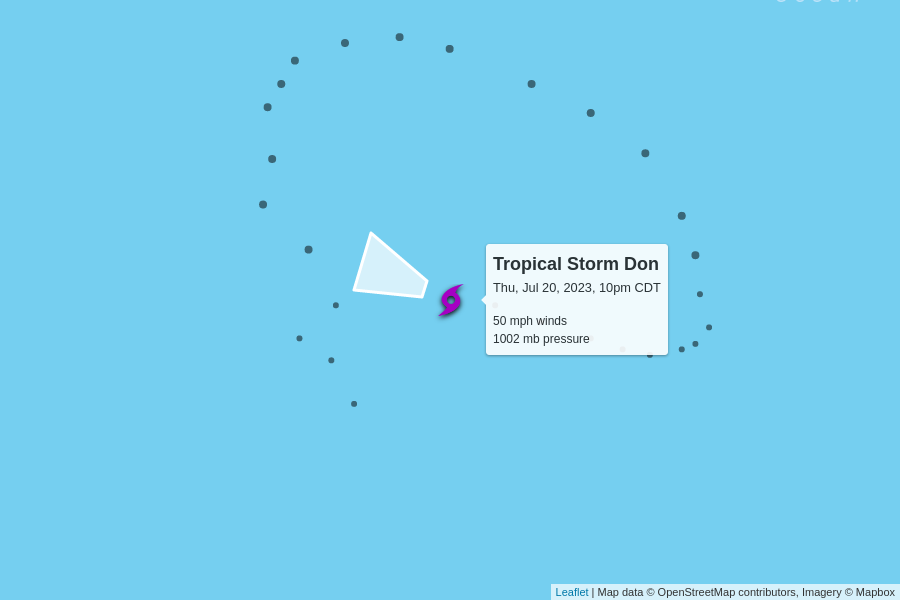
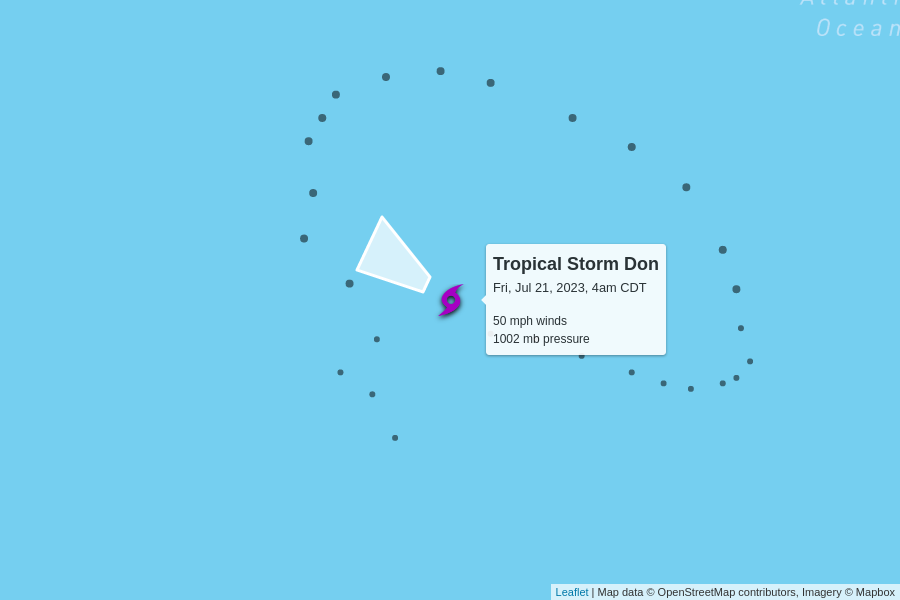
automatic update

diff --git a/docs/index.html b/docs/index.html
@@ -100,7 +100,7 @@
         <td colspan="6" class="storm category-0" >
           <h2>
             Tropical Storm Don
-            <p class="updated">last updated <span data-time>2023-07-21T03:00:00.000Z</span></p>
+            <p class="updated">last updated <span data-time>2023-07-21T09:00:00.000Z</span></p>
           </h2>
         </td>
       </tr>
@@ -120,7 +120,7 @@
         <td>
           9 mph to the west-northwest
           <br/>
-          <span style="display: inline-block; font-size: 1.5em; transform: rotate(290deg);">↑</span>
+          <span style="display: inline-block; font-size: 1.5em; transform: rotate(300deg);">↑</span>
         </td>
         <td><a href="https://raw.githubusercontent.com/mgwalker/atlantic-hurricanes/main/data/csv/AL052023.csv">AL052023.csv</a></td>
         <td><a href="https://www.nhc.noaa.gov/archive/2023/DON.shtml?">NHC advisories</a></td>
